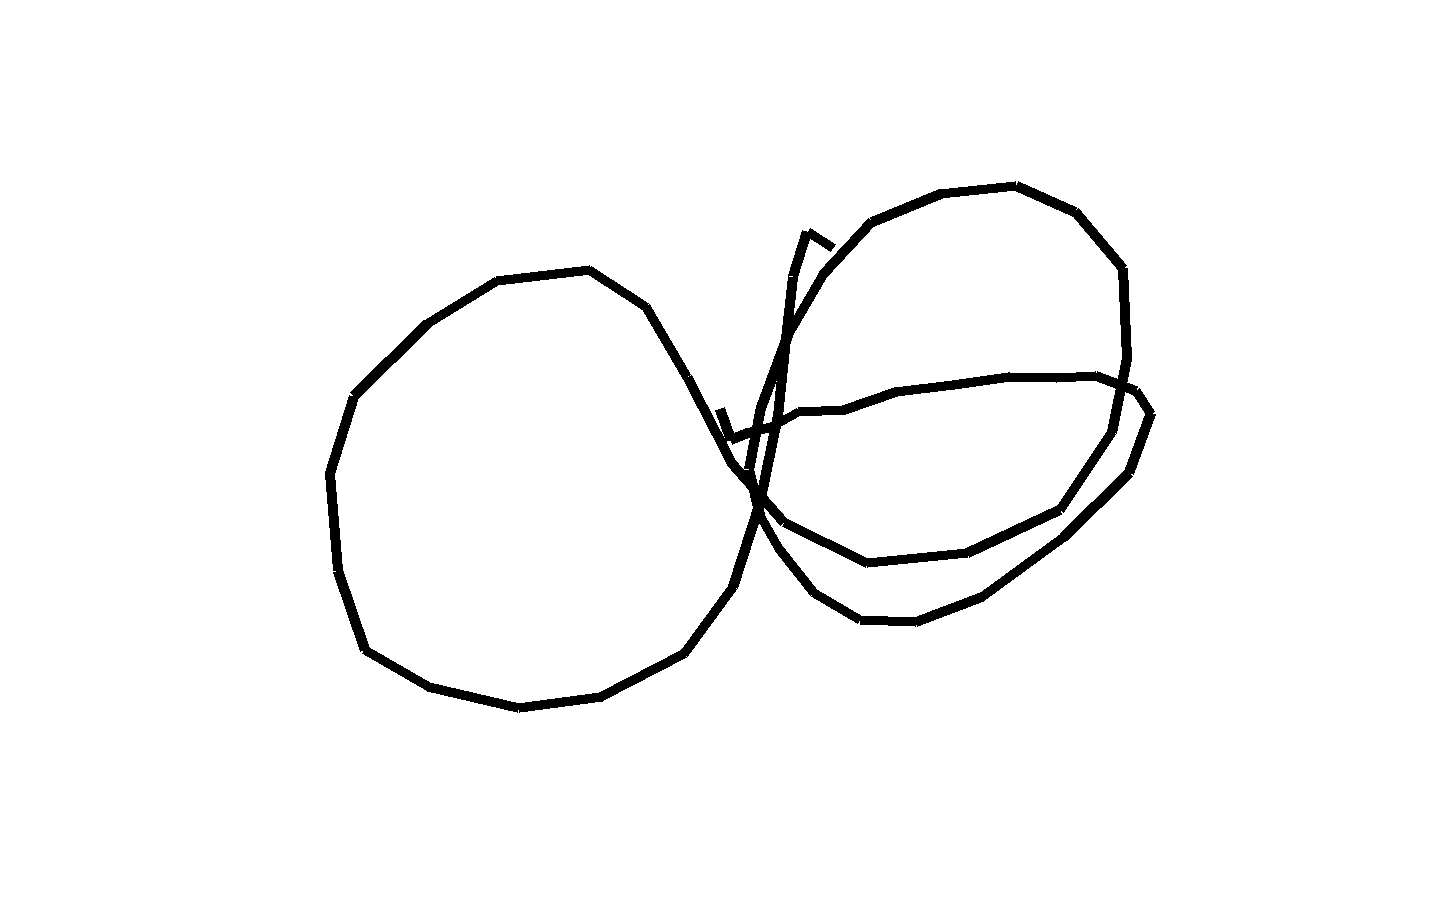
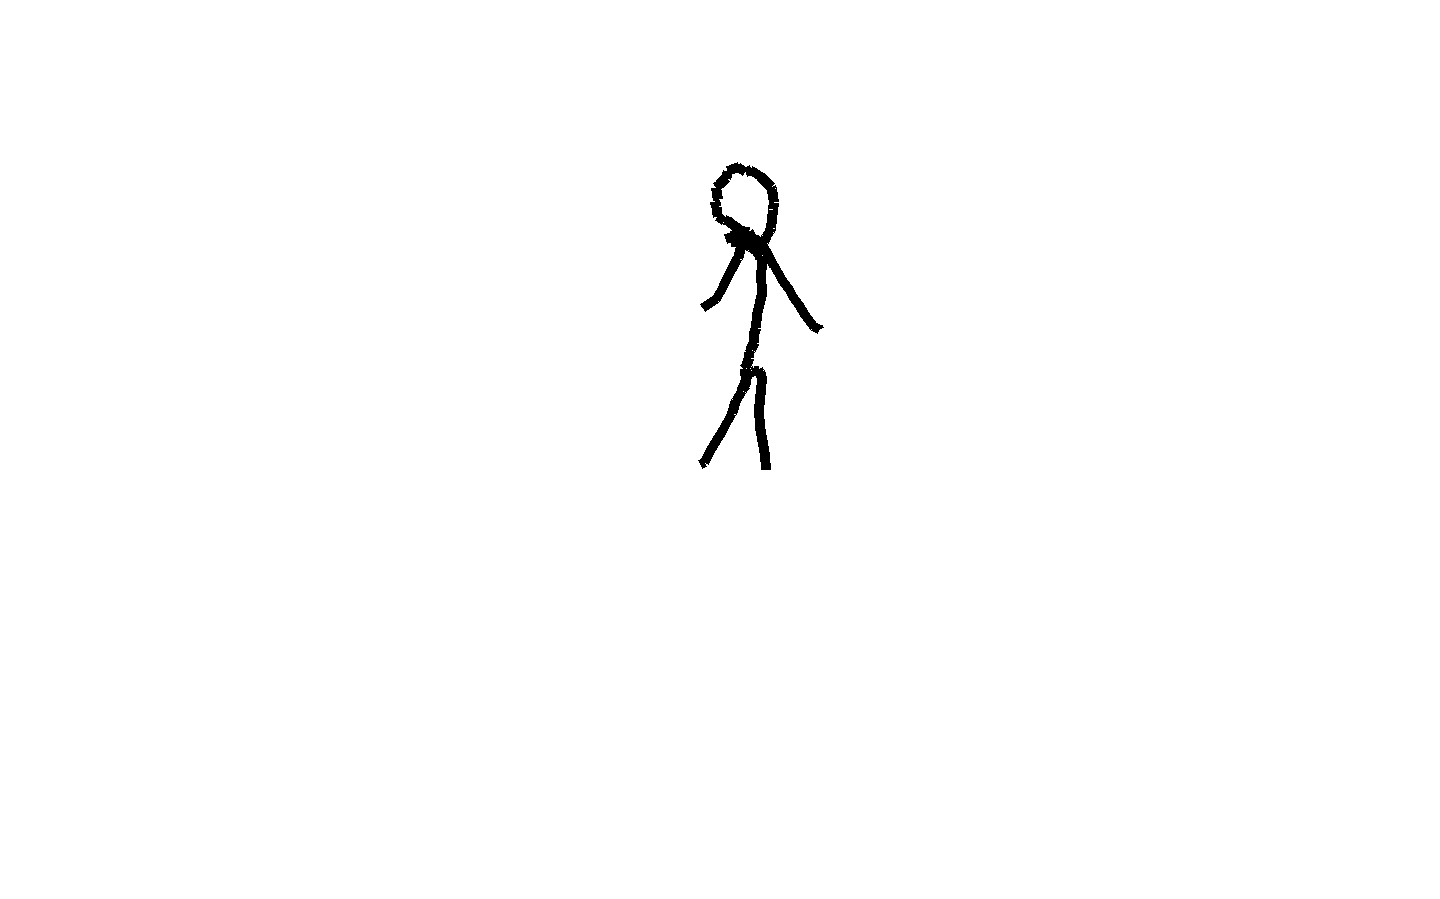
Финал

diff --git a/commander.py b/commander.py
@@ -77,7 +77,7 @@ class Commander:
         }
     
     def move_while(self, cond: callable, check_gestures = False, delay = 3):
-        tm = time()
+        self.last_showed_end_time = time()
         while cond():
             if self.recognitions_queue.empty():
                 continue
@@ -90,7 +90,11 @@ class Commander:
             fx, fy = (recognition_results.landmarks[0, 8, :2] + recognition_results.landmarks[0, 4, :2]) / 2
             fx = recognition_results.shape[1] - fx * recognition_results.shape[1]
             fy *= recognition_results.shape[0]
-            if check_gestures and (('Thumb_Up' in recognition_results.gestures and time() - self.last_showed_end_time > delay) or ('Thumb_Down' in recognition_results.gestures and time() - self.last_showed_end_time > delay)):
+            if check_gestures and (
+                ('Thumb_Up' in recognition_results.gestures and 
+                 time() - self.last_showed_end_time > delay) or 
+                ('Thumb_Down' in recognition_results.gestures and 
+                 time() - self.last_showed_end_time > delay)):
                 self.last_showed_end_time = time()
                 return 'Thumb_Up' in recognition_results.gestures
             self.move(recognition_results.gestures, fx, fy, recognition_results.shape[:2])
@@ -267,7 +271,7 @@ if __name__ == '__main__':
     commands_queue = Queue(-1)
     chat_queue = Queue(-1)
     
-    api_url = 'https://qtf4vqzx-5000.euw.devtunnels.ms/generator'
+    api_url = 'https://tlzn6qzm-5000.euw.devtunnels.ms/generator'
     
     gesture_recognizer = GestureRecognizer(frames_queue, recognitions_queue)
     app = App()

diff --git a/generator.py b/generator.py
@@ -9,7 +9,7 @@ class Generator:
         self.url = url
         self.queue = queue
     
-    def generate(self, image: np.ndarray, prompt: str, negative_prompt: str = ''):
+    def generate(self, image: np.ndarray, prompt: str, negative_prompt: str = 'bad quality, worst quality, bad anatomy'):
         buffer = io.BytesIO()
         np.save(buffer, image)
         buffer.seek(0)
@@ -20,7 +20,7 @@ class Generator:
             self.url,
             json={
                 'image': array_base64,
-                'prompt': prompt,
+                'prompt': prompt + ', great quality, beautiful, high-detailed',
                 'negative_prompt': negative_prompt
             }
         )

diff --git a/interface.py b/interface.py
@@ -370,7 +370,9 @@ class App():
         self.signs = []
         for idx, sentence in enumerate(text):
             label = tk.Label(self.instruction_frame, text=sentence, font="Jost 50", bg='white', fg='black')
-            self.signs.append(ImageTk.PhotoImage(Image.open('images/' + imgs_names[idx])))
+            img_src = Image.open('images/' + imgs_names[idx])
+            new_size = (int(img_src.size[0] // 10 * 9), int(img_src.size[1] // 10 * 9))
+            self.signs.append(ImageTk.PhotoImage(img_src.resize(new_size)))
             image = tk.Label(self.instruction_frame, image=self.signs[-1], bg='white')
             
             image.grid(row=idx, column=0)

diff --git a/client.py b/client.py
@@ -19,7 +19,7 @@ array_base64 = base64.b64encode(buffer.read()).decode('utf-8')
 
 # Отправляем массив на сервер
 response = requests.post(
-    'https://qtf4vqzx-5000.euw.devtunnels.ms/generator',
+    'https://tlzn6qzm-5000.euw.devtunnels.ms/generator',
     json={
         'image': array_base64,
         'prompt': 'monkey',
@@ -31,5 +31,5 @@ array_data = base64.b64decode(data['generated'])
         
 image = np.load(io.BytesIO(array_data), allow_pickle=True)
 
-plt.imshow(image[0])
+plt.imshow(image[1])
 plt.show()
